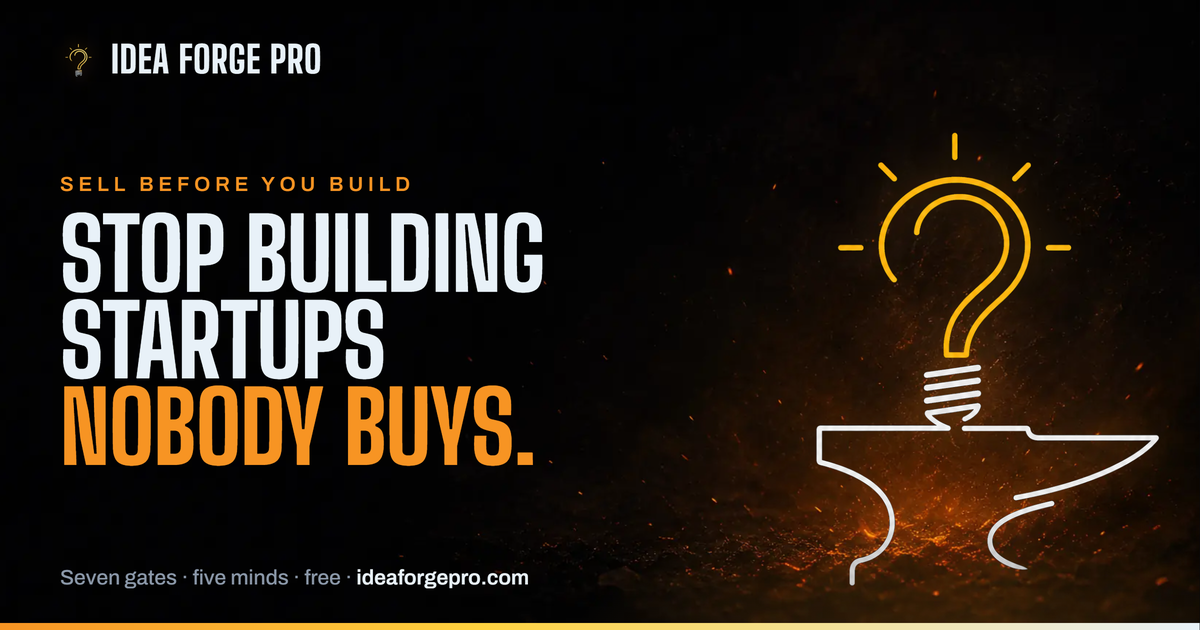
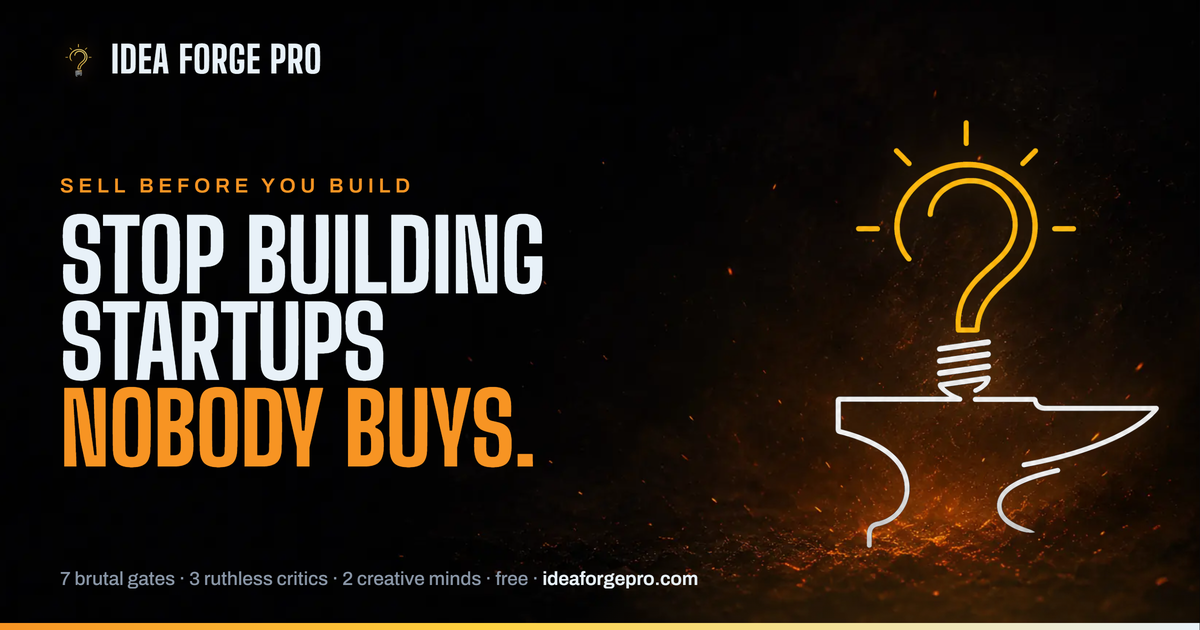
Share card: name what you actually get - 7 gates, 3 critics, 2 creative minds
"A ruthless AI" was singular and inaccurate: the product is five distinct minds, and they do two
different jobs. The card now says what a visitor actually gets:

  7 brutal gates - 3 ruthless critics - 2 creative minds - free - ideaforgepro.com

Numerals rather than words and dot-separated rather than "and", so it reads at a glance in a feed.
The split is the honest one: the Bull, the Short Seller and the Closer argue the idea down; the Smith
and the Prospector build it back up.

The longer line runs nearly the full width, so the anvil was lifted (bottom 7vh -> 13vh, height
72vh -> 68vh) and the line tightened (1.75vw -> 1.58vw, nowrap). Verified no collisions: the art
clears the footer by 41px and the headline by 190px, and the line stays on one row.

Cache-buster ?6 -> ?7 across index.html, integra.html, personas.html and the app.

diff --git a/og-card.html b/og-card.html
@@ -37,7 +37,8 @@
   .brand span{font-family:"Big Shoulders Display",Haettenschweiler,"Arial Narrow",sans-serif;
     font-weight:800;font-size:3.1vw;line-height:1;letter-spacing:.02em;text-transform:uppercase;color:#E8F1F8}
   /* the anvil sits right, as on the hero, lit from the coals below it */
-  .art{position:absolute;right:3.4vw;bottom:7vh;height:72vh;width:auto;z-index:1;
+  /* lifted clear of the footer line, which now runs the full width of the card */
+  .art{position:absolute;right:3.4vw;bottom:13vh;height:68vh;width:auto;z-index:1;
     filter:drop-shadow(0 0 3.2vh rgba(247,148,35,.42))}
   .mid{align-self:center;position:relative;z-index:2;max-width:63%}
   .eyebrow{font-weight:600;font-size:1.7vw;letter-spacing:.24em;
@@ -45,7 +46,7 @@
   h1{font-family:"Big Shoulders Display",Haettenschweiler,"Arial Narrow",sans-serif;
     font-weight:800;font-size:8.2vw;line-height:.88;letter-spacing:-.01em;text-transform:uppercase}
   h1 em{font-style:normal;color:#F79423}
-  .foot{align-self:end;position:relative;z-index:2;font-weight:500;font-size:1.75vw;color:#8A97A8}
+  .foot{align-self:end;position:relative;z-index:2;font-weight:500;font-size:1.58vw;color:#8A97A8;white-space:nowrap}
   .foot b{color:#E8F1F8;font-weight:600}
   /* the molten seam that closes every page of the product */
   .rule{position:absolute;left:0;right:0;bottom:0;height:1.1vh;
@@ -60,7 +61,11 @@
       <div class="eyebrow">Sell before you build</div>
       <h1>Stop building startups <em>nobody&nbsp;buys.</em></h1>
     </div>
-    <div class="foot">Seven gates · five minds · free · <b>ideaforgepro.com</b></div>
+    <!-- Numerals, not words, and dot-separated rather than "and" — it has to read at a glance in a
+         feed. The split is the honest one: 3 critics (the Bull, the Short Seller, the Closer) argue
+         the idea down, 2 creative minds (the Smith, the Prospector) build it back up. "A ruthless AI"
+         was singular and wrong. -->
+    <div class="foot">7 brutal gates · 3 ruthless critics · 2 creative minds · free · <b>ideaforgepro.com</b></div>
     <div class="rule"></div>
   </div>
 </body>

diff --git a/index.html b/index.html
@@ -23,13 +23,13 @@
 <meta property="og:site_name" content="Idea Forge Pro">
 <meta property="og:title" content="Idea Forge Pro — Sell Before You Build">
 <meta property="og:description" content="Seven gates. It tells you which one your idea fails, before you build. Free, in your browser.">
-<meta property="og:image" content="https://ideaforgepro.com/og-image.png?6">
+<meta property="og:image" content="https://ideaforgepro.com/og-image.png?7">
 <meta property="og:image:width" content="1200">
 <meta property="og:image:height" content="630">
 <meta name="twitter:card" content="summary_large_image">
 <meta name="twitter:title" content="Idea Forge Pro — Sell Before You Build">
 <meta name="twitter:description" content="Seven gates. It tells you which one your idea fails, before you build.">
-<meta name="twitter:image" content="https://ideaforgepro.com/og-image.png?6">
+<meta name="twitter:image" content="https://ideaforgepro.com/og-image.png?7">
 <!-- the forge plate is a CSS background, so it isn't discovered until the CSSOM
      builds — preload it or the hero paints black for a beat -->
 <link rel="preload" as="image" href="/assets/hero-bg.webp">

diff --git a/personas.html b/personas.html
@@ -22,7 +22,7 @@
 <meta property="og:site_name" content="Idea Forge Pro">
 <meta property="og:title" content="Meet the experts">
 <meta property="og:description" content="Five AI minds forge every idea — a steelman, an adversary, a closer, a scout, and the Smith who forges with you. Each was designed in Deliberon's Agent Designer.">
-<meta property="og:image" content="https://ideaforgepro.com/og-image.png?6">
+<meta property="og:image" content="https://ideaforgepro.com/og-image.png?7">
 <meta name="twitter:card" content="summary_large_image">
 <link rel="preconnect" href="https://fonts.googleapis.com">
 <link rel="preconnect" href="https://fonts.gstatic.com" crossorigin>

diff --git a/integra.html b/integra.html
@@ -22,7 +22,7 @@
 <meta property="og:site_name" content="Idea Forge Pro">
 <meta property="og:title" content="What INTEGRA means">
 <meta property="og:description" content="A governance protocol is only worth anything if you can check it. Here is the one mechanism it enforces, and how to catch it lying.">
-<meta property="og:image" content="https://ideaforgepro.com/og-image.png?6">
+<meta property="og:image" content="https://ideaforgepro.com/og-image.png?7">
 <meta name="twitter:card" content="summary_large_image">
 <link rel="preconnect" href="https://fonts.googleapis.com">
 <link rel="preconnect" href="https://fonts.gstatic.com" crossorigin>
